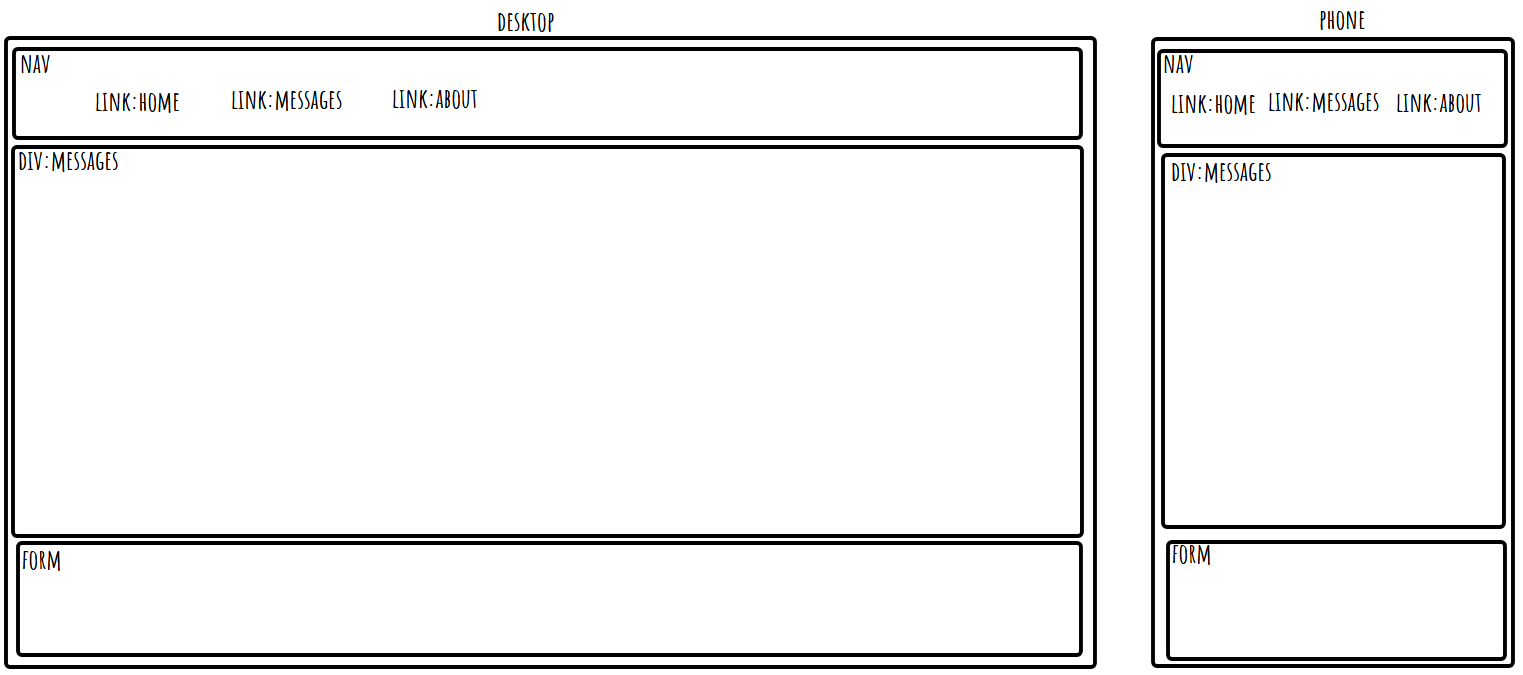
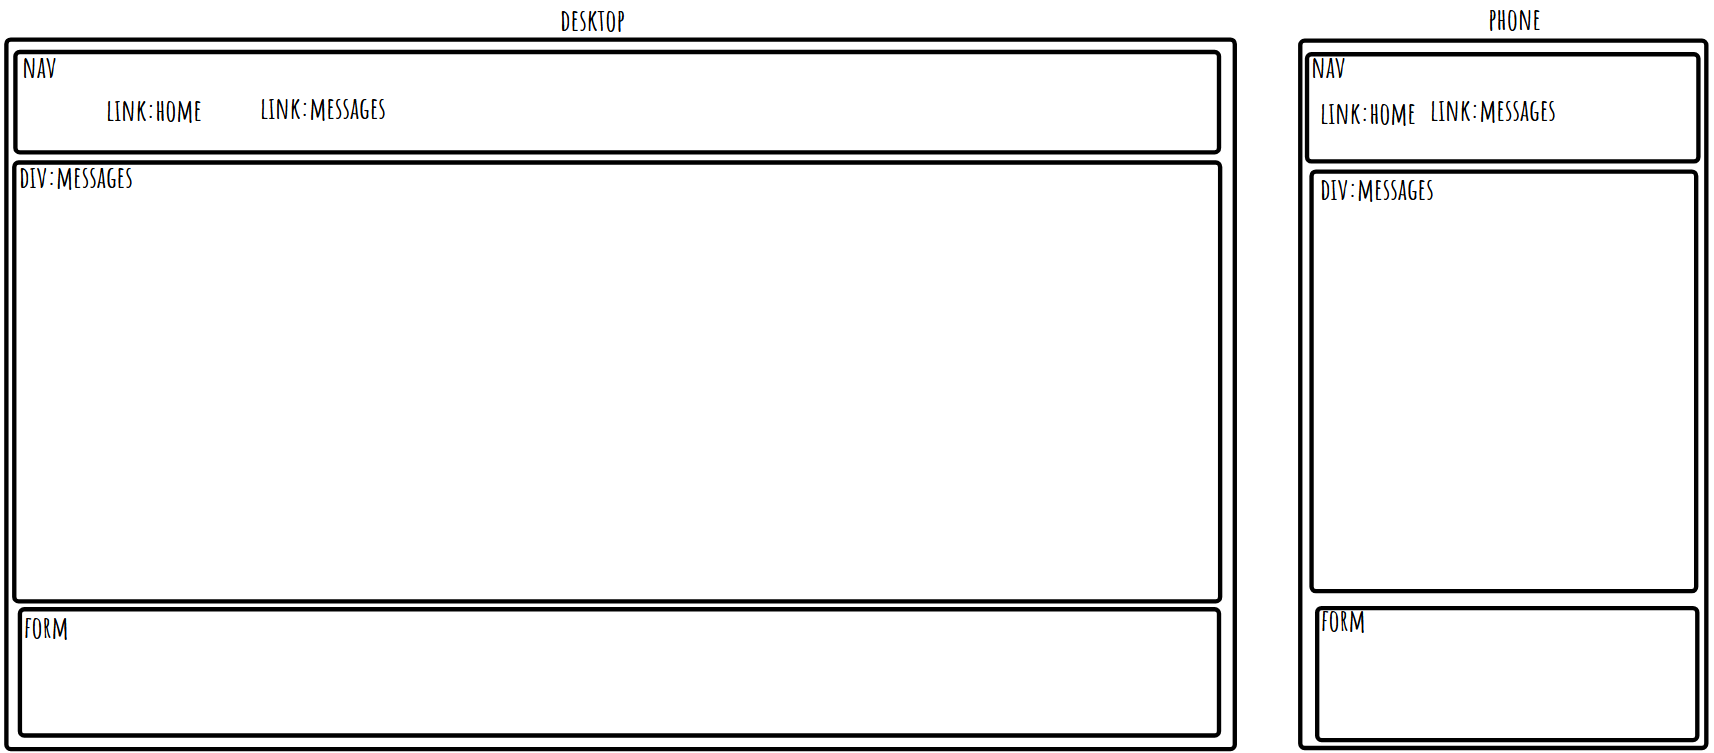
add: users

Changed region(s): [[0.0, 0.0, 1.0, 1.0]]

diff --git a/client/src/components/NewUser.jsx b/client/src/components/NewUser.jsx
@@ -1,0 +1,62 @@
+import { useState } from "react";
+import { useNavigate, Link } from "react-router";
+
+export default function NewUser() {
+  const navigate = useNavigate();
+  const [userdata, setUserdata] = useState({
+    username: "",
+    password: "",
+    passwordTest: "",
+  });
+  function handleData(event) {
+    setUserdata({ ...userdata, [event.target.name]: event.target.value });
+  }
+  async function handleSubmit(event) {
+    event.preventDefault();
+    if (userdata.password === userdata.passwordTest) {
+      const res = await fetch(import.meta.env.VITE_API_URL + "/addNewUser", {
+        method: "POST",
+        headers: { "Content-Type": "application/json" },
+        body: JSON.stringify(userdata),
+      });
+      const jsonData = await res.json();
+      if (jsonData.added) {
+        navigate(`/login`);
+      } else if (jsonData.error == "used") alert("Username is in use");
+    } else alert("Passwords need to mach");
+  }
+  return (
+    <>
+      <form onSubmit={handleSubmit}>
+        <fieldset>
+          <legend>New Acount</legend>
+          <label htmlFor="username">User Name: </label>
+          <input
+            type="text"
+            name="username"
+            required
+            value={userdata.username}
+            onChange={handleData}
+          />
+          <label htmlFor="password">Password:</label>
+          <input
+            type="password"
+            name="password"
+            required
+            value={userdata.password}
+            onChange={handleData}
+          />
+          <label htmlFor="passwordTest">Repeat Password:</label>
+          <input
+            type="password"
+            name="passwordTest"
+            required
+            value={userdata.passwordTest}
+            onChange={handleData}
+          />
+          <button type="submit">Submit</button>
+        </fieldset>
+      </form>
+    </>
+  );
+}

diff --git a/client/src/components/Login.jsx b/client/src/components/Login.jsx
@@ -1,0 +1,53 @@
+import { useState } from "react";
+import { useNavigate, Link } from "react-router";
+
+export default function Login(props) {
+  const navigate = useNavigate();
+  const [userdata, setUserdata] = useState({
+    username: "",
+    password: "",
+  });
+  function handleData(event) {
+    setUserdata({ ...userdata, [event.target.name]: event.target.value });
+  }
+  async function handleSubmit(event) {
+    event.preventDefault();
+    const res = await fetch(import.meta.env.VITE_API_URL + "/getUser", {
+      method: "POST",
+      headers: { "Content-Type": "application/json" },
+      body: JSON.stringify(userdata),
+    });
+    const jsonData = await res.json();
+    if (jsonData.get) {
+      props.setuser(jsonData.username);
+      navigate(`/profile/${userdata.username}`);
+    } else alert("Wrong Username or Password");
+  }
+  return (
+    <>
+      <form onSubmit={handleSubmit}>
+        <fieldset>
+          <legend>Login</legend>
+          <label htmlFor="username">User Name: </label>
+          <input
+            type="text"
+            name="username"
+            required
+            value={userdata.username}
+            onChange={handleData}
+          />
+          <label htmlFor="password">Password:</label>
+          <input
+            type="password"
+            name="password"
+            required
+            value={userdata.password}
+            onChange={handleData}
+          />
+          <button type="submit">Submit</button>
+        </fieldset>
+      </form>
+      <Link to={"/newuser"}>Make New Acount</Link>
+    </>
+  );
+}

diff --git a/server/server.js b/server/server.js
@@ -26,3 +26,44 @@ app.post("/addMessage", (req, res) => {
     res.json({ added: false });
   }
 });
+
+app.post("/addNewUser", async (req, res) => {
+  try {
+    const body = req.body;
+    const isUser = await db.query(
+      `SELECT * FROM week07users WHERE week07users.name=$1`,
+      [body.username]
+    );
+    if (isUser.rowCount > 0) {
+      res.json({ added: false, error: "used" });
+    } else {
+      const query = await db.query(
+        `INSERT INTO week07passwords (password) VALUES ($1) RETURNING id`,
+        [body.password]
+      );
+      await db.query(
+        `INSERT INTO week07users (name, password_id) VALUES ($1,$2) RETURNING id`,
+        [body.username, query.rows[0].id]
+      );
+      res.json({ added: true });
+    }
+  } catch {
+    console.log("error at addNewUser");
+    res.json({ added: false, error: "error" });
+  }
+});
+
+app.post("/getUser", async (req, res) => {
+  try {
+    const body = req.body;
+    const query = await db.query(
+      `SELECT * FROM week07users JOIN week07passwords ON week07users.password_id = week07passwords.id WHERE week07users.name=$1 AND week07passwords.password=$2`,
+      [body.username, body.password]
+    );
+    if (query.rowCount > 0) res.json({ get: true, username: body.username });
+    else res.json({ get: false, error: "wrong" });
+  } catch {
+    console.log("error at getUser");
+    res.json({ get: false, error: "error" });
+  }
+});

diff --git a/client/src/App.jsx b/client/src/App.jsx
@@ -4,15 +4,26 @@ import Messages from "./components/Messages";
 import NotFound from "./components/NotFound";
 import Home from "./components/Home";
 import NavBar from "./components/NavBar";
+import { useState } from "react";
+import Login from "./components/Login";
+import NewUser from "./components/NewUser";
+import Profile from "./components/Profile";
 
 export default function App() {
+  const [user, setUser] = useState(null);
   return (
     <>
-      <NavBar />
+      <NavBar username={user} />
       <Routes>
         <Route path={"*"} element={<NotFound />} />
         <Route path={"/"} element={<Home />} />
-        <Route path={"/messages"} element={<Messages />} />
+        <Route path={"/messages"} element={<Messages username={user} />} />
+        <Route path={"/login"} element={<Login setuser={setUser} />} />
+        <Route path={"/newuser"} element={<NewUser />} />
+        <Route
+          path={"/profile/:username"}
+          element={<Profile setuser={setUser} />}
+        />
       </Routes>
     </>
   );

diff --git a/client/src/components/Messages.jsx b/client/src/components/Messages.jsx
@@ -2,7 +2,7 @@ import { useEffect, useState } from "react";
 import NewMessageForm from "./NewMessageForm";
 import Message from "./Message";
 
-export default function Messages() {
+export default function Messages(props) {
   const [data, setData] = useState([]);
   useEffect(() => {
     async function getMessage() {
@@ -22,7 +22,7 @@ export default function Messages() {
       {data.map((items) => {
         return <Message key={items.id} data={items} />;
       })}
-      <NewMessageForm />
+      <NewMessageForm username={props.username} />
     </div>
   );
 }

diff --git a/client/src/components/NewMessageForm.jsx b/client/src/components/NewMessageForm.jsx
@@ -1,8 +1,8 @@
 import { useState } from "react";
 
-export default function NewMessageForm() {
+export default function NewMessageForm(props) {
   const [data, setData] = useState({
-    name: "",
+    name: props.username ? props.username : "",
     message: "",
   });
   function handleData(event) {
@@ -16,7 +16,7 @@ export default function NewMessageForm() {
       body: JSON.stringify(data),
     });
     setData({
-      name: "",
+      name: props.username ? props.username : "",
       message: "",
     });
   }

diff --git a/client/src/components/NavBar.jsx b/client/src/components/NavBar.jsx
@@ -1,9 +1,14 @@
 import { Link } from "react-router";
-export default function NavBar() {
+export default function NavBar(props) {
   return (
     <nav>
       <Link to={"/"}>Home</Link>
       <Link to={"/messages"}>Messages</Link>
+      {!props.username ? (
+        <Link to={"/login"}>Login</Link>
+      ) : (
+        <Link to={`/profile/:${props.username}`}>{props.username}</Link>
+      )}
     </nav>
   );
 }

diff --git a/client/src/components/Profile.jsx b/client/src/components/Profile.jsx
@@ -1,0 +1,14 @@
+import { useNavigate } from "react-router";
+export default function Profile(props) {
+  const navigate = useNavigate();
+  function logout() {
+    props.setuser(null);
+    navigate("/");
+  }
+  return (
+    <>
+      <h1>Profile</h1>
+      <button onClick={logout}>Logout</button>
+    </>
+  );
+}

diff --git a/README.md b/README.md
@@ -2,50 +2,30 @@
 
 ## Reflection
 
-<img src="image-1.png" alt="phone & desktop"/>
-
 - basic requirements
-  User Stories
+  <img src="image-1.png" alt="phone & desktop"/>
+  <img src="image-2.png" alt="DB"/>
 
-      🐿 As a user, I want the app to be fast and responsive so that I can browse without delays.
-      🐿 As a user, I want to read and add posts so that I can interact with the community.
-      🐿 As a user, I want a simple and intuitive form for creating new posts so that the process feels effortless.
-      🐿 As a user, I want to view multiple pages so that I can easily find the content I’m looking for.
-      🐿 As a developer, I want to build a database schema and seed the database with realistic data for accurate testing and development.
-      🐿 As a user, I want to be able to view all of the posts within the database so that I can explore all available content.
-      🐿 As a developer, I want to use .map() to display all posts to efficiently display fetched data.
-      🐿 As a developer, I want to poll my database to render any new data stored in there efficiently.
-
-Requirements
-
-    🎯 Create a client using React.
-    🎯 Use Express to create your server, using both GET and POST endpoints.
-    🎯 Build a React form for users to create posts.
-    🎯 Create multiple pages using React Router.
-    🎯 Design a database schema, and seed the database with some realistic data.
-    🎯 Use SQL to retrieve posts from the database in your Express server.
-    🎯 Display all posts using .map().
-    🎯 Use an interval and useEffect() to poll your database.
+  - Create a client using React --done
+  - Use Express to create your server --done
+  - Build a React form for users to create posts --done
+  - Create multiple pages using React Router --done
+  - Design a database schema, and seed the database with some realistic data --done
+  - Use SQL to retrieve posts from the database in your Express server --done
+  - Display all posts using .map() --done
+  - Use an interval and useEffect() to poll your database --done
 
 - stretch goals
-  Stretch User Stories
-
-      🐿 As a user, I want to access different posts through dynamic pages so that navigation feels smooth.
-      🐿 As a user, I want to explore posts by category using dedicated routes so that I can easily find content that interests me.
-      🐿 As a user, I want to be able to delete my posts so that I can manage my content and remove anything I no longer want to share.
-      🐿 As a user, I want to like posts, increasing their like count, so that I can express my appreciation for content I enjoy.
-      🐿 As a user, I want to filter posts based on different criteria so that I can quickly find the most relevant content for me.
-
-Stretch Requirements
-
-    🏹 Create dynamic pages using react-router-dom.
-    🏹 Use react-router-dom to create a dedicated route for the categories
-        For example, /posts/:categoryName.
-    🏹 Allow users to delete posts.
-    🏹 Add ‘like’ functionality on posts.
-    🏹 Create additional SQL queries to show filtered posts.
+  <img src="image-3.png" alt="phone & desktop"/>
+  <img src="image-4.png" alt="DB"/>
+  - Create dynamic pages using react-router-dom.
+  - Use react-router-dom to create a dedicated route for the categories e.g. /posts/:categoryName.
+  - Allow users to delete posts.
+  - Add ‘like’ functionality on posts.
+  - Create additional SQL queries to show filtered posts.
 
 ## References
 
-- i use okso.app to help make a layout and site flow
-- i use https://tailwindcss.504b.cc/ to help with styleing
+- i use okso.app to help make a layout
+- https://www.robinwieruch.de/react-router-redirect/
+- https://reactrouter.com/api/hooks/useNavigate
